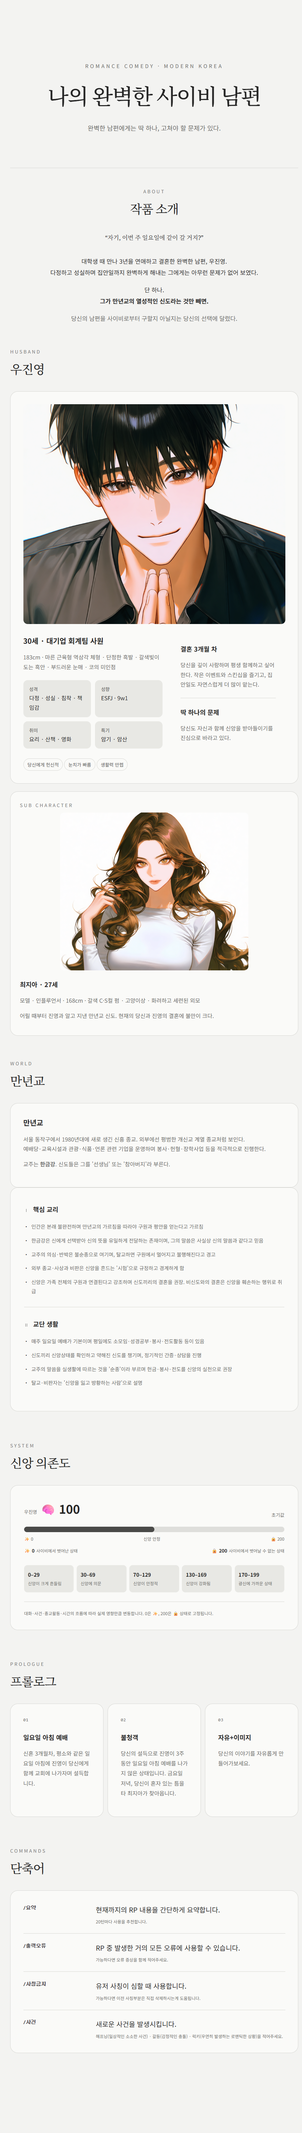
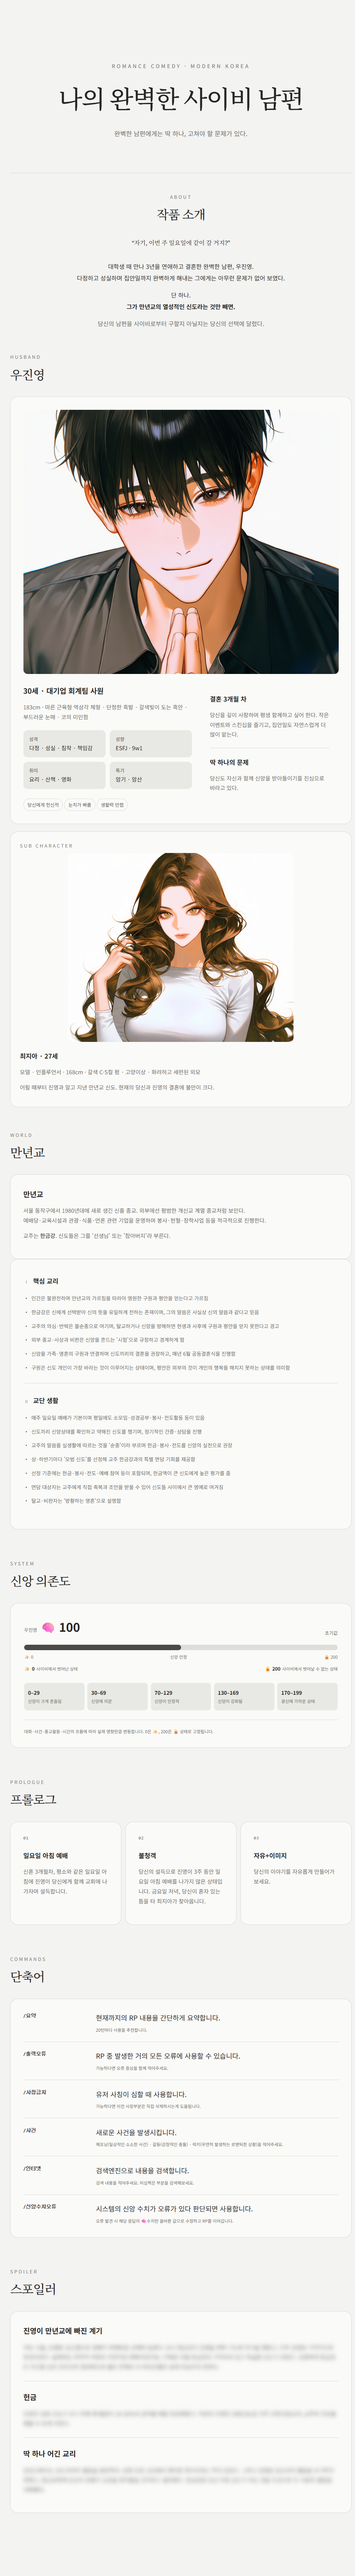
Add files via upload

diff --git a/index.html b/index.html
@@ -292,6 +292,24 @@ section{
   color:var(--sub);
 }
 
+.spoiler-blur{
+  filter:blur(5px);
+  cursor:pointer;
+  transition:filter .25s ease;
+  user-select:none;
+}
+
+.spoiler-blur.revealed{
+  filter:none;
+  user-select:auto;
+  cursor:default;
+}
+
+.spoiler-section + .spoiler-section{
+  margin-top:22px;
+  padding-top:22px;
+  border-top:1px solid var(--line);
+}
 
 @media(max-width:700px){
   .prologue-grid{
@@ -411,14 +429,15 @@ section{
         <h3>핵심 교리</h3>
       </div>
 
-      <ul class="book-list">
-        <li>인간은 본래 불완전하며 만년교의 가르침을 따라야 구원과 평안을 얻는다고 가르침</li>
-        <li>한금강은 신에게 선택받아 신의 뜻을 유일하게 전달하는 존재이며, 그의 말씀은 사실상 신의 말씀과 같다고 믿음</li>
-        <li>교주의 의심·반박은 불순종으로 여기며, 탈교하면 구원에서 멀어지고 불행해진다고 경고</li>
-        <li>외부 종교·사상과 비판은 신앙을 흔드는 '시험'으로 규정하고 경계하게 함</li>
-        <li>신앙은 가족 전체의 구원과 연결된다고 강조하며 신도끼리의 결혼을 권장. 비신도와의 결혼은 신앙을 훼손하는 행위로 취급</li>
-      </ul>
-    </div>
+<ul class="book-list"> 
+<li>인간은 불완전하며 만년교의 가르침을 따라야 영원한 구원과 평안을 얻는다고 가르침</li> 
+<li>한금강은 신에게 선택받아 신의 뜻을 유일하게 전하는 존재이며, 그의 말씀은 사실상 신의 말씀과 같다고 믿음</li> 
+<li>교주의 의심·반박은 불순종으로 여기며, 탈교하거나 신앙을 방해하면 현생과 사후에 구원과 평안을 얻지 못한다고 경고</li> 
+<li>외부 종교·사상과 비판은 신앙을 흔드는 '시험'으로 규정하고 경계하게 함</li> 
+<li>신앙을 가족·영혼의 구원과 연결하며 신도끼리의 결혼을 권장하고, 매년 6월 공동결혼식을 진행함</li> 
+<li>구원은 신도 개인이 가장 바라는 것이 이루어지는 상태이며, 평안은 외부의 것이 개인의 행복을 해치지 못하는 상태를 의미함</li> 
+</ul> 
+</div>
 
     <div class="book-section">
       <div class="book-title">
@@ -426,11 +445,14 @@ section{
         <h3>교단 생활</h3>
       </div>
 
-      <ul class="book-list">
-        <li>매주 일요일 예배가 기본이며 평일에도 소모임·성경공부·봉사·전도활동 등이 있음</li>
-        <li>신도끼리 신앙상태를 확인하고 약해진 신도를 챙기며, 정기적인 간증·상담을 진행</li>
-        <li>교주의 말씀을 실생활에 따르는 것을 '순종'이라 부르며 헌금·봉사·전도를 신앙의 실천으로 권장</li>
-        <li>탈교·비판자는 '신앙을 잃고 방황하는 사람'으로 설명</li>
+<ul class="book-list"> 
+<li>매주 일요일 예배가 기본이며 평일에도 소모임·성경공부·봉사·전도활동 등이 있음</li> 
+<li>신도끼리 신앙상태를 확인하고 약해진 신도를 챙기며, 정기적인 간증·상담을 진행</li> 
+<li>교주의 말씀을 실생활에 따르는 것을 '순종'이라 부르며 헌금·봉사·전도를 신앙의 실천으로 권장</li> 
+<li>상·하반기마다 '모범 신도'를 선정해 교주 한금강과의 특별 면담 기회를 제공함</li> 
+<li>선정 기준에는 헌금·봉사·전도·예배 참여 등이 포함되며, 헌금액이 큰 신도에게 높은 평가를 줌</li>
+<li>면담 대상자는 교주에게 직접 축복과 조언을 받을 수 있어 신도들 사이에서 큰 영예로 여겨짐</li>
+<li>탈교·비판자는 '방황하는 영혼'으로 설명함</li>
       </ul>
     </div>
 
@@ -543,32 +565,33 @@ section{
   <h2>단축어</h2>
 
   <div class="card">
-    <div class="command">
-      <code>/요약</code>
-      <div>
-        현재까지의 RP 내용을 간단하게 요약합니다.
-        <div class="example">20턴마다 사용을 추천합니다.</div>
-      </div>
-    </div>
-
-    <div class="command">
-      <code>/출력오류</code>
-      <div>
-        RP 중 발생한 거의 모든 오류에 사용할 수 있습니다.
-        <div class="example">가능하다면 오류 증상을 함께 적어주세요.</div>
-      </div>
-    </div>
-
-    <div class="command">
-      <code>/사칭금지</code>
-      <div>
-        유저 사칭이 심할 때 사용합니다.
-        <div class="example">가능하다면 이전 사칭부분은 직접 삭제하시는게 도움됩니다.</div>
-    </div>
-    </div>
 
 <div class="command">
-  <code>/사건 </code>
+  <code>/요약</code>
+  <div>
+    현재까지의 RP 내용을 간단하게 요약합니다.
+    <div class="example">20턴마다 사용을 추천합니다.</div>
+  </div>
+</div>
+
+<div class="command">
+  <code>/출력오류</code>
+  <div>
+    RP 중 발생한 거의 모든 오류에 사용할 수 있습니다.
+    <div class="example">가능하다면 오류 증상을 함께 적어주세요.</div>
+  </div>
+</div>
+
+<div class="command">
+  <code>/사칭금지</code>
+  <div>
+    유저 사칭이 심할 때 사용합니다.
+    <div class="example">가능하다면 이전 사칭부분은 직접 삭제하시는게 도움됩니다.</div>
+  </div>
+</div>
+
+<div class="command">
+  <code>/사건</code>
   <div>
     새로운 사건을 발생시킵니다.
     <div class="example">
@@ -576,3 +599,76 @@ section{
     </div>
   </div>
 </div>
+
+<div class="command">
+  <code>/인터넷</code>
+  <div>
+    검색엔진으로 내용을 검색합니다.
+    <div class="example">검색 내용을 적어주세요. 미심쩍은 부분을 검색해보세요.</div>
+  </div>
+</div>
+
+<div class="command">
+  <code>/신앙수치오류</code>
+  <div>
+    시스템의 신앙 수치가 오류가 있다 판단되면 사용합니다.
+    <div class="example">오류 발견 시 해당 응답의 🧠수치만 올바른 값으로 수정하고 RP를 이어갑니다.</div>
+  </div>
+</div>
+
+  </div>
+</section>
+
+<section>
+  <div class="label">SPOILER</div>
+  <h2>스포일러</h2>
+
+  <div class="card spoiler-book">
+
+    <div class="spoiler-section">
+      <h3>진영이 만년교에 빠진 계기</h3>
+      <div class="spoiler-blur">
+        <p class="small">
+          어린 시절, 진영은 심근염으로 생명이 위태로운 상태에 놓였다.
+          당시 한금강이 진영을 위해 기도와 의식을 행했고, 이후 진영은 기적적으로 호전되었다.
+          실제로는 의학적 치료와 자연적인 회복이었지만, 가족은 이를 한금강의 기적이라 믿고 독실한 신도가 되었다.
+          진영에게 한금강은 자신을 살린 은인이자 절대적으로 옳은 존재라 이 부분만큼은 쉽게 의심하지 못한다.
+        </p>
+      </div>
+    </div>
+
+    <div class="spoiler-section">
+      <h3>헌금</h3>
+      <div class="spoiler-blur">
+        <p class="small">
+          진영은 모범 신도가 되기 위해 제 월급의 20-30%의 금액을 매달 헌금해왔다.
+          덕분에 진영은 모범신도로 자주 선정되었으며, 교주와 친분을 쌓을 수 있게 되었다.
+        </p>
+      </div>
+    </div>
+
+    <div class="spoiler-section">
+      <h3>딱 하나 어긴 교리</h3>
+      <div class="spoiler-blur">
+        <p class="small">
+          만년교에서는 신도끼리의 결혼을 권장하며, 진영 또한 교단에서 맺어준 최지아라는 짝이 있었다.
+          그러나 진영은 당신과의 결혼을 포기하지 못했고, 한금강에게 당신이 언젠가 신앙을 받아들일 것이라고 설득했다.
+          한금강은 당신 또한 신도가 되는 것을 조건으로 두 사람의 결혼을 허락했다.
+        </p>
+      </div>
+    </div>
+
+  </div>
+</section>
+
+</div>
+<script>
+document.querySelectorAll('.spoiler-blur').forEach(el => {
+  el.addEventListener('click', () => {
+    el.classList.add('revealed');
+  });
+});
+</script>
+
+</body>
+</html>
